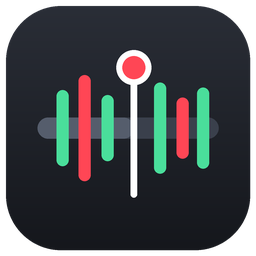
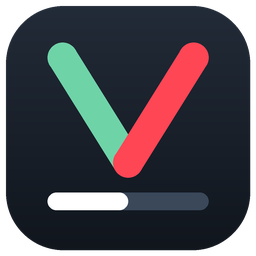
アプリアイコンを緑赤の V と再生バーのデザインに刷新する
小さいサイズで印が潰れて見づらかったため、要素を絞った。
左の腕をキル（緑）、右の腕をデス（赤）にした V の下に再生バーを置き、
32px 以下は再生バーを省いて V を太く描く。

diff --git a/tools/make_icon.py b/tools/make_icon.py
@@ -1,17 +1,16 @@
 """アプリアイコン（src/ValoRecorder.App/Assets/app.ico）を生成する。
 
-デザイン: 暗い角丸の背景に、アプリのタイムラインを大きく描く（キル=緑、デス=赤の印、白い再生位置）。
-再生位置のつまみを小さな赤丸にして「録画」を控えめに示す。
-32px 以下は印を 3 本に減らし、太く描く。
+デザイン: 暗い角丸の背景に、左の腕がキル（緑）・右の腕がデス（赤）の「V」を描き、下に再生バーを置く。
+32px 以下は再生バーを省き、V を太く大きく描く。
 usage: python tools/make_icon.py
 """
 from pathlib import Path
 from PIL import Image, ImageDraw
 
 S = 1024  # 1024px で描いて各サイズに縮小する
-BG_TOP, BG_BOTTOM = (0x2A, 0x2E, 0x37), (0x14, 0x16, 0x1B)
-TRACK, PLAYED = (0x3A, 0x40, 0x4C), (0x55, 0x5D, 0x6C)
-GREEN, RED, WHITE = (0x4A, 0xDE, 0x9B), (0xFF, 0x46, 0x55), (0xFF, 0xFF, 0xFF)
+BG_TOP, BG_BOTTOM = (0x22, 0x2B, 0x38), (0x10, 0x15, 0x1C)
+TRACK = (0x3A, 0x48, 0x5A)
+GREEN, RED, WHITE = (0x6F, 0xD3, 0xA8), (0xFF, 0x46, 0x55), (0xFF, 0xFF, 0xFF)
 
 out_dir = Path(__file__).resolve().parent.parent / "src" / "ValoRecorder.App" / "Assets"
 
@@ -23,50 +22,40 @@ def background() -> Image.Image:
         t = y / (S - 1)
         d.line([(0, y), (S, y)], fill=tuple(round(a + (b - a) * t) for a, b in zip(BG_TOP, BG_BOTTOM)) + (255,))
     mask = Image.new("L", (S, S), 0)
-    ImageDraw.Draw(mask).rounded_rectangle([24, 24, S - 24, S - 24], radius=220, fill=255)
+    ImageDraw.Draw(mask).rounded_rectangle([24, 24, S - 24, S - 24], radius=230, fill=255)
     img = Image.new("RGBA", (S, S), (0, 0, 0, 0))
     img.paste(grad, mask=mask)
     return img
 
 
-def timeline(track: tuple[int, int, int, int], markers: list[tuple[int, int, int, tuple]], marker_w: int,
-             playhead_x: int, playhead: tuple[int, int, int], knob: int) -> Image.Image:
-    """track=(x0, y0, x1, y1)、markers=[(x, 上端, 下端, 色)]、playhead=(幅, 上端, 下端)、knob=つまみの半径（0 で無し）"""
+def pill(d: ImageDraw.ImageDraw, p0: tuple[int, int], p1: tuple[int, int], w: int, fill: tuple) -> None:
+    """両端の丸い太線"""
+    d.line([p0, p1], fill=fill, width=w)
+    for x, y in (p0, p1):
+        d.ellipse([x - w / 2, y - w / 2, x + w / 2, y + w / 2], fill=fill)
+
+
+def v_mark(left: tuple[int, int], right: tuple[int, int], tip: tuple[int, int], w: int,
+           bar: tuple[int, int, int, int] | None = None, played_x: int = 0) -> Image.Image:
+    """left/right=V の腕の上端、tip=V の先端、bar=再生バー (x0, y0, x1, y1)（None で無し）、played_x=再生済みの右端"""
     img = background()
     d = ImageDraw.Draw(img)
-    x0, y0, x1, y1 = track
-    radius = (y1 - y0) // 2
-    d.rounded_rectangle(track, radius=radius, fill=TRACK)
-    d.rounded_rectangle([x0, y0, playhead_x, y1], radius=radius, fill=PLAYED)
-
-    for x, top, bottom, color in markers:
-        d.rounded_rectangle([x - marker_w // 2, top, x + marker_w // 2, bottom], radius=marker_w // 2, fill=color)
-
-    w, top, bottom = playhead
-    d.rounded_rectangle([playhead_x - w // 2, top, playhead_x + w // 2, bottom], radius=w // 2, fill=WHITE)
-    if knob:
-        d.ellipse([playhead_x - knob, top - knob, playhead_x + knob, top + knob], fill=WHITE)
-        inner = knob * 2 // 3
-        d.ellipse([playhead_x - inner, top - inner, playhead_x + inner, top + inner], fill=RED)
+    pill(d, left, tip, w, GREEN)
+    pill(d, right, tip, w, RED)  # 赤を後に描いて先端で緑に重ねる
+    if bar:
+        x0, y0, x1, y1 = bar
+        radius = (y1 - y0) // 2
+        d.rounded_rectangle(bar, radius=radius, fill=TRACK)
+        d.rounded_rectangle([x0, y0, played_x, y1], radius=radius, fill=WHITE)
     return img
 
 
-# 48px 以上: 印 6 本（高さに差をつけてリズムを出す）
-large = timeline(
-    track=(150, 470, 874, 554),
-    markers=[(250, 360, 664, GREEN), (338, 300, 724, RED), (430, 380, 644, GREEN),
-             (640, 330, 694, GREEN), (730, 390, 634, RED), (812, 350, 674, GREEN)],
-    marker_w=48,
-    playhead_x=535, playhead=(26, 270, 790), knob=70,
-)
+# 48px 以上: V + 再生バー
+large = v_mark(left=(250, 230), right=(774, 230), tip=(512, 650), w=120,
+               bar=(190, 770, 834, 840), played_x=512)
 
-# 32px 以下: 印 3 本を太く、つまみ無し
-small = timeline(
-    track=(130, 440, 894, 584),
-    markers=[(290, 270, 754, GREEN), (450, 330, 694, RED), (790, 290, 734, GREEN)],
-    marker_w=110,
-    playhead_x=620, playhead=(60, 190, 834), knob=0,
-)
+# 32px 以下: 再生バーを省き、V を太く大きく
+small = v_mark(left=(220, 220), right=(804, 220), tip=(512, 790), w=170)
 
 sizes = [16, 24, 32, 48, 64, 128, 256]
 frames = [(small if s <= 32 else large).resize((s, s), Image.LANCZOS) for s in sizes]
